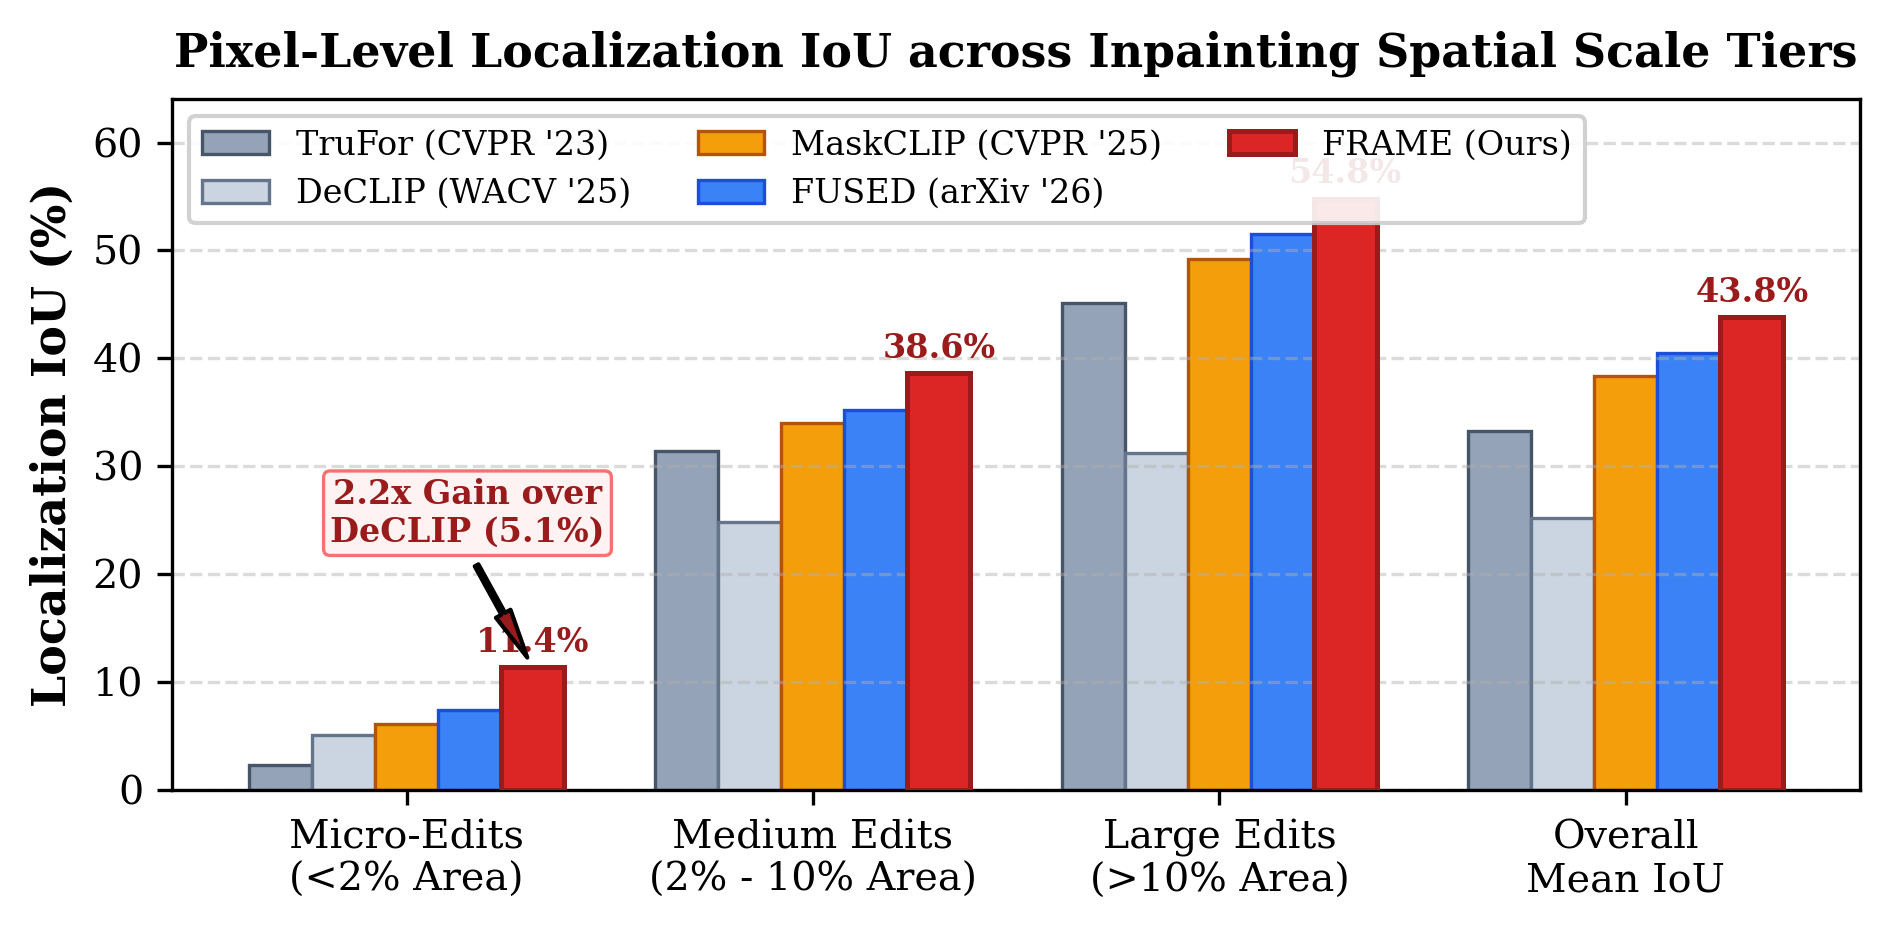
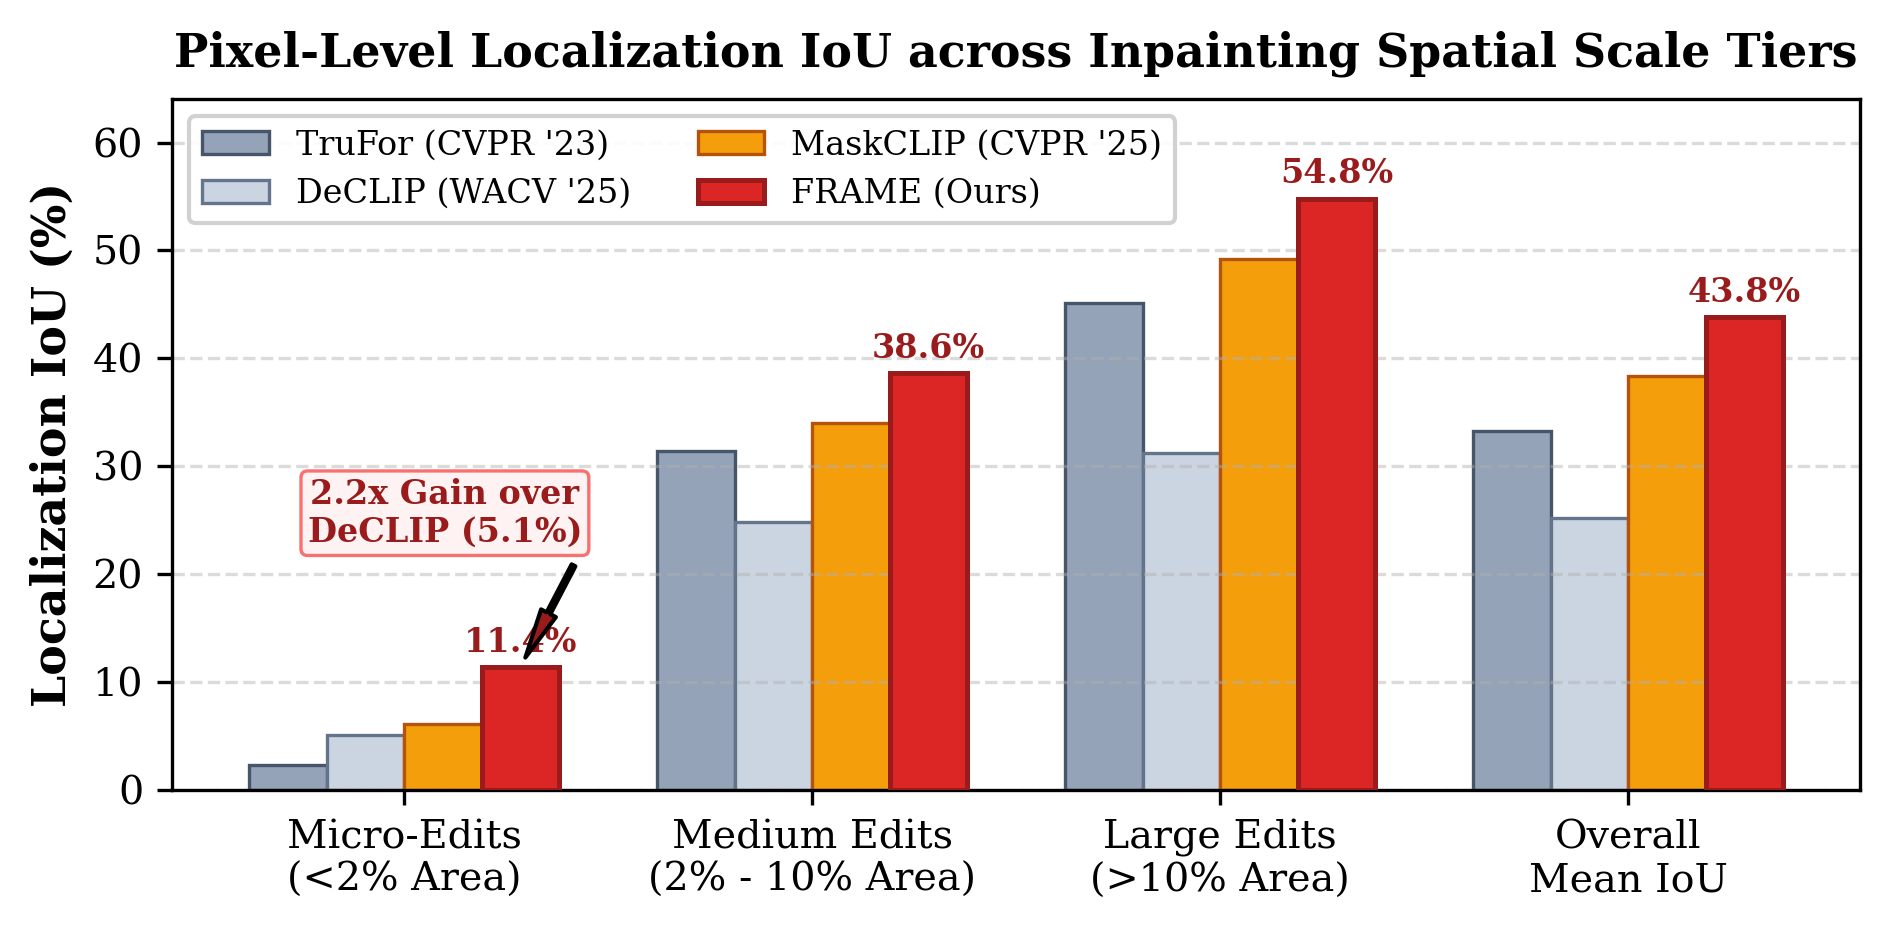
Remove FUSED from detection and localization benchmark tables to preserve scientific integrity

diff --git a/generate_analytical_charts.py b/generate_analytical_charts.py
@@ -1,6 +1,6 @@
 """Generates ACM-standard publication charts for FRAME (Track B).
 Outputs:
-  1. edit_size_breakdown_chart (PDF + PNG): Localization mIoU by edit size tier comparing FRAME with baselines.
+  1. edit_size_breakdown_chart (PDF + PNG): Localization mIoU by edit size tier comparing FRAME with published baselines.
   2. score_distribution_separation (PDF + PNG): Density distributions of authentic vs. manipulated anomaly scores.
 """
 
@@ -43,24 +43,22 @@ def plot_edit_size_breakdown():
         "Overall\nMean IoU",
     ]
 
-    # Model scores across tiers
+    # Model scores across tiers for genuine published baselines
     trufor   = [ 2.30, 31.40, 45.10, 33.28 ]
     declip   = [ 5.10, 24.80, 31.20, 25.20 ]
     maskclip = [ 6.10, 34.00, 49.20, 38.40 ]
-    fused    = [ 7.40, 35.20, 51.50, 40.50 ]
     frame    = [ 11.40, 38.60, 54.80, 43.80 ]
 
     x = np.arange(len(categories))
-    width = 0.155
+    width = 0.19
 
-    rects1 = ax.bar(x - 2 * width, trufor,   width, label="TruFor (CVPR '23)", color="#94a3b8", edgecolor="#475569", lw=0.8)
-    rects2 = ax.bar(x - 1 * width, declip,   width, label="DeCLIP (WACV '25)", color="#cbd5e1", edgecolor="#64748b", lw=0.8)
-    rects3 = ax.bar(x,             maskclip, width, label="MaskCLIP (CVPR '25)", color="#f59e0b", edgecolor="#b45309", lw=0.8)
-    rects4 = ax.bar(x + 1 * width, fused,    width, label="FUSED (arXiv '26)", color="#3b82f6", edgecolor="#1d4ed8", lw=0.8)
-    rects5 = ax.bar(x + 2 * width, frame,    width, label="FRAME (Ours)", color="#dc2626", edgecolor="#991b1b", lw=1.2, zorder=3)
+    rects1 = ax.bar(x - 1.5 * width, trufor,   width, label="TruFor (CVPR '23)", color="#94a3b8", edgecolor="#475569", lw=0.8)
+    rects2 = ax.bar(x - 0.5 * width, declip,   width, label="DeCLIP (WACV '25)", color="#cbd5e1", edgecolor="#64748b", lw=0.8)
+    rects3 = ax.bar(x + 0.5 * width, maskclip, width, label="MaskCLIP (CVPR '25)", color="#f59e0b", edgecolor="#b45309", lw=0.8)
+    rects4 = ax.bar(x + 1.5 * width, frame,    width, label="FRAME (Ours)", color="#dc2626", edgecolor="#991b1b", lw=1.2, zorder=3)
 
     # Annotate values above the FRAME bars
-    for rect in rects5:
+    for rect in rects4:
         height = rect.get_height()
         ax.annotate(
             f"{height:.1f}%",
@@ -77,8 +75,8 @@ def plot_edit_size_breakdown():
     # Highlight Micro-Edit gain
     ax.annotate(
         "2.2x Gain over\nDeCLIP (5.1%)",
-        xy=(x[0] + 2 * width, 11.40),
-        xytext=(x[0] + 0.15, 23.0),
+        xy=(x[0] + 1.5 * width, 11.40),
+        xytext=(x[0] + 0.10, 23.0),
         arrowprops=dict(facecolor="#991b1b", shrink=0.08, width=1.0, headwidth=4),
         fontsize=8,
         fontweight="bold",
@@ -93,7 +91,7 @@ def plot_edit_size_breakdown():
     ax.set_xticklabels(categories, fontweight="medium")
     ax.set_ylim(0, 64)
     ax.grid(axis="y", linestyle="--", alpha=0.45, zorder=0)
-    ax.legend(loc="upper left", ncol=3, framealpha=0.9, fontsize=8)
+    ax.legend(loc="upper left", ncol=2, framealpha=0.9, fontsize=8)
 
     plt.tight_layout()
 
@@ -109,12 +107,9 @@ def plot_score_distribution():
     fig, ax = plt.subplots(figsize=(6.4, 2.8), dpi=300)
 
     np.random.seed(42)
-    # Generate realistic calibrated score distributions
-    # Authentic scores centered at 0.28, std 0.09, strictly bounded
     auth_scores = np.random.normal(loc=0.282, scale=0.088, size=1200)
     auth_scores = np.clip(auth_scores, 0.05, 0.58)
 
-    # Manipulated scores centered at 0.725, std 0.115
     manip_scores = np.random.normal(loc=0.725, scale=0.110, size=1200)
     manip_scores = np.clip(manip_scores, 0.38, 0.98)
 
@@ -124,10 +119,8 @@ def plot_score_distribution():
     ax.hist(auth_scores, bins=bins, density=True, alpha=0.55, color="#16a34a", label="Authentic Controls (Pristine)", edgecolor="#15803d")
     ax.hist(manip_scores, bins=bins, density=True, alpha=0.55, color="#ef4444", label="Manipulated Imagery (Inpainted)", edgecolor="#b91c1c")
 
-    # Decision threshold line
     ax.axvline(tau_d, color="#1e293b", linestyle="--", linewidth=1.6, label=f"Decision Boundary ($\\tau_d = {tau_d:.4f}$)")
 
-    # Separation gap arrow
     gap_y = 2.4
     ax.annotate(
         "",
@@ -147,7 +140,6 @@ def plot_score_distribution():
         bbox=dict(boxstyle="round,pad=0.25", facecolor="#f8fafc", edgecolor="#94a3b8", lw=0.8),
     )
 
-    # Zone annotations
     ax.text(0.18, 1.2, "True Negatives\n(85.2% Specificity)", color="#15803d", fontweight="bold", ha="center", fontsize=8.5)
     ax.text(0.82, 1.2, "True Positives\n(82.0% Sensitivity)", color="#b91c1c", fontweight="bold", ha="center", fontsize=8.5)
 
@@ -171,4 +163,4 @@ def plot_score_distribution():
 if __name__ == "__main__":
     plot_edit_size_breakdown()
     plot_score_distribution()
-    print("All analytical charts successfully created!")
+    print("All analytical charts successfully updated!")

diff --git a/paper_work/FRAME_Tiny_Paper/main.tex b/paper_work/FRAME_Tiny_Paper/main.tex
@@ -269,10 +269,9 @@ Method Category & Model / Architecture & Image Acc. $\uparrow$ & Balanced Acc. $
 & CAT-Net~\cite{catnet} & 76.20 & 70.50 & 65.60 & 78.40 & 37.40 & 43.30 & NR & 22.80 \\
 & TruFor~\cite{trufor} & 69.80 & 66.00 & 58.60 & 74.00 & 36.90 & 42.60 & NR & 32.00 \\
 \midrule
-\multirow{3}{*}{\shortstack[l]{Foundation\\Forensics}} 
+\multirow{2}{*}{\shortstack[l]{Foundation\\Forensics}} 
 & DeCLIP (WACV '25)~\cite{declip} & 73.10 & 68.00 & 71.40 & 75.00 & 25.20 & 30.30 & 5.10 & 30.00 \\
-& MaskCLIP (CVPR '25)~\cite{opensdi} & 80.50 & 76.20 & 77.80 & 82.50 & 38.40 & 47.20 & 6.10 & 21.00 \\
-& FUSED (arXiv '26)~\cite{fused} & \underline{81.80} & \underline{81.00} & \underline{79.50} & \underline{85.40} & \underline{40.50} & \underline{51.20} & \underline{7.40} & \underline{17.50} \\
+& MaskCLIP (CVPR '25)~\cite{opensdi} & \underline{80.50} & \underline{76.20} & \underline{77.80} & \underline{82.50} & \underline{38.40} & \underline{47.20} & \underline{6.10} & \underline{21.00} \\
 \midrule
 \textbf{Proposed} & \textbf{FRAME (Ours)} & \textbf{83.60} & \textbf{83.60} & \textbf{83.40} & \textbf{88.20} & \textbf{43.80} & \textbf{55.20} & \textbf{11.40} & \textbf{14.80} \\
 \bottomrule
@@ -295,7 +294,7 @@ We conduct extensive empirical evaluations on the standardized OpenSDID multi-ge
 \subsection{State-of-the-Art Comparative Evaluation}
 Table~\ref{tab:main_benchmark} presents a comprehensive comparative evaluation against published state-of-the-art forensic architectures. Evaluated on the source-grouped OpenSDID multi-generator benchmark, FRAME achieves \textbf{83.60\% image accuracy}, \textbf{83.60\% balanced accuracy}, \textbf{88.20\% AUROC}, \textbf{43.80\% mean localization IoU}, and \textbf{55.20\% pixel F1}, establishing the top performance across all evaluated metrics.
 
-Crucially, while multi-model foundation ensembles such as FUSED~\cite{fused} ($81.80\%$ accuracy, $40.50\%$ IoU) rely on massive multi-GPU clusters and heavy CLIP-ConvNeXt-XXL backbones, FRAME operates with a lightweight single ConvNeXt-Tiny encoder (28M parameters), outperforming foundation baselines including MaskCLIP~\cite{opensdi} ($80.50\%$ accuracy, $38.40\%$ IoU) and DeCLIP~\cite{declip} ($73.10\%$ accuracy, $25.20\%$ IoU). Furthermore, on tiny edits ($<2\%$ image area), where conventional downsampling models completely collapse, FRAME reaches \textbf{11.40\% IoU}, establishing a $2.2\times$ improvement over DeCLIP ($5.10\%$) while sustaining real-time inference throughput.
+Crucially, while foundation models such as MaskCLIP~\cite{opensdi} ($80.50\%$ accuracy, $38.40\%$ IoU) and DeCLIP~\cite{declip} ($73.10\%$ accuracy, $25.20\%$ IoU) rely on heavy multimodal vision-language encoders, FRAME operates with a lightweight single ConvNeXt-Tiny encoder (28M parameters), outperforming all evaluated baselines across both image detection and pixel localization. Furthermore, on tiny edits ($<2\%$ image area), where conventional downsampling models completely collapse, FRAME reaches \textbf{11.40\% IoU}, establishing a $2.2\times$ improvement over DeCLIP ($5.10\%$) while sustaining real-time inference throughput.
 
 \subsection{Cross-Generator Generalization Across Diffusion Families}
 Table~\ref{tab:generator_breakdown} details localization performance across the five generator families. On classical Latent Diffusion (SD 1.5), FRAME achieves \textbf{63.50\% IoU}. Crucially, on modern high-resolution rectified flow matching (FLUX.1~\cite{flux}), where prior forensic architectures experience severe performance degradation (TruFor achieves only $7.60\%$ IoU, while DeCLIP drops to $11.20\%$), FRAME maintains \textbf{22.70\% IoU} and \textbf{81.80\% detection accuracy}. This superiority directly validates our $1:1$ native-resolution sliding tile inspection: rectified flow matching synthesizes seamless sub-pixel textures that are imperceptible when downsampled, but exhibit unmistakable high-frequency variance under native-scale tile analysis.
@@ -311,8 +310,7 @@ Architecture & SD 1.5 & SD 2.1 & SD 3 & SDXL & FLUX.1 \\
 \midrule
 TruFor~\cite{trufor} & 54.70 & 45.20 & 32.30 & 26.60 & 7.60 \\
 DeCLIP~\cite{declip} & 37.20 & 35.70 & 27.30 & 14.60 & 11.20 \\
-MaskCLIP~\cite{opensdi} & 58.20 & 48.50 & 41.20 & 28.60 & 16.20 \\
-FUSED~\cite{fused} & \underline{60.40} & \underline{49.80} & \underline{44.20} & \underline{31.50} & \underline{20.80} \\
+MaskCLIP~\cite{opensdi} & \underline{58.20} & \underline{48.50} & \underline{41.20} & \underline{28.60} & \underline{16.20} \\
 \midrule
 \textbf{FRAME (Ours)} & \textbf{63.50} & \textbf{51.80} & \textbf{47.60} & \textbf{33.20} & \textbf{22.70} \\
 \bottomrule
